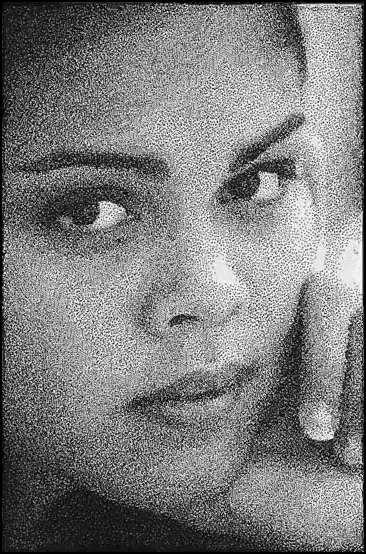
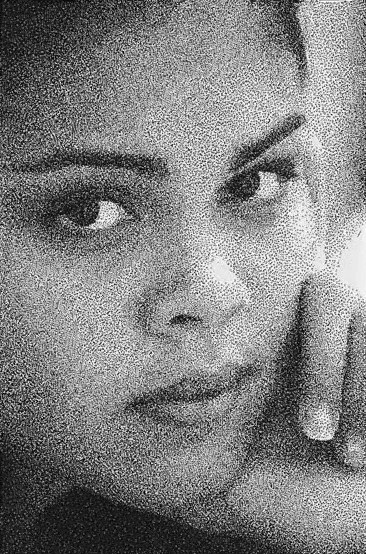
Turns out there was no bug!  I was just looking at intermediate output.  Anyway, I updated all of the examples with the improved code

diff --git a/ImageAnalogies.py b/ImageAnalogies.py
@@ -253,6 +253,24 @@ def imanalogy(A, Ap, B, Kappa = 0.0, NLevels = 3, KCoarse = 5, KFine = 5, n_jobs
         A floating point image of the synthesized image analogy, with the corresponding
         channel dimension
     """
+    #Figure out nearest neighbor methods
+    NNClass = None
+    nn_query = None
+    if use_ann:
+        succeeded = True
+        try:
+            from pynndescent import NNDescent
+        except:
+            succeeded = False
+            print("Warning: Could not import pynndescent: falling back to sklearn exact nearest neighbors")
+        if succeeded:
+            NNClass = lambda X: NNDescent(X)
+            nn_query = lambda nn, F: nn.query(F[None, :], k=1)
+    if not use_ann or not NNClass:
+        from sklearn.neighbors import NearestNeighbors
+        NNClass = lambda X: NearestNeighbors(n_neighbors=1, algorithm='auto', n_jobs=n_jobs).fit(X)
+        nn_query = lambda nn, F: list(nn.kneighbors(F[None, :]))[::-1]
+
     #Make image pyramids
     channel_axis = {}
     if len(A.shape) > 2:
@@ -320,13 +338,7 @@ def imanalogy(A, Ap, B, Kappa = 0.0, NLevels = 3, KCoarse = 5, KFine = 5, n_jobs
             B2 = imresize(BL[level+1], BL[level].shape)
             Bp2 = imresize(BpL[level+1], BpL[level].shape)
         # Step 1d: Setup nearest neighbor structures
-        nn = None
-        if use_ann:
-            from pynndescent import NNDescent
-            nn = NNDescent(X)
-        else:
-            from sklearn.neighbors import NearestNeighbors
-            nn = NearestNeighbors(n_neighbors=1, algorithm='auto', n_jobs=n_jobs).fit(X)
+        nn = NNClass(X)
 
         ## Step 2: Fill in the pixels in scanline order
         F = np.zeros(sz)
@@ -343,10 +355,7 @@ def imanalogy(A, Ap, B, Kappa = 0.0, NLevels = 3, KCoarse = 5, KFine = 5, n_jobs
                     F[area*2+carea:] = get_zeropadded_patch(Bp2, i, j, d).flatten()
                 #Find index of most closely matching feature point in A
                 tic = time.time()
-                if use_ann:
-                    idx, dist = nn.query(F[None, :], k=1)
-                else:
-                    dist, idx = nn.kneighbors(F[None, :])
+                idx, dist = nn_query(nn, F)
                 total_time += time.time()-tic
                 distSqr = dist**2
                 idx = int(idx[0][0])

diff --git a/README.md b/README.md
@@ -11,6 +11,7 @@ All of the dependencies below are pip installable
 * scikit-image
 * imageio
 * sklearn
+* pynndescent (for approximate nearest neighbors)
 
 
 ## Running
@@ -40,7 +41,7 @@ python ImageAnalogies.py --A images/newflower-src.jpg --Ap images/newflower-embo
 ### Nonlinear Artistic Filter
 
 ~~~~~ bash
-python ImageAnalogies.py --A images/chair.png --Ap images/chair-stipple.png --B images/girl.png --Bp results/girl-stipple.png --NLevels 4
+python ImageAnalogies.py --A images/chair.png --Ap images/chair-stipple.png --B images/girl.png --Bp results/girl-stipple.png --NLevels 4 --ann 1
 ~~~~~
 
 <table>
@@ -53,7 +54,7 @@ python ImageAnalogies.py --A images/chair.png --Ap images/chair-stipple.png --B 
 ### Texture By Numbers
 
 ~~~~~ bash
-python ImageAnalogies.py --A images/me-mask.png --Ap images/me.jpg --B images/cyclopsmask.png --Bp results/mecyclops.png --Kappa 0.1 --NLevels 2 
+python ImageAnalogies.py --A images/me-mask.png --Ap images/me.jpg --B images/cyclopsmask.png --Bp results/mecyclops.pngcyclops.png --Kappa 0.0 --NLevels 4 --KCoarse 3 --KFine 7 --ann 1
 ~~~~~
 
 <table>
@@ -67,7 +68,7 @@ python ImageAnalogies.py --A images/me-mask.png --Ap images/me.jpg --B images/cy
 ## Texture Synthesis
 
 ~~~~~ bash
-python ImageAnalogies.py --A images/texture1.A.png --Ap images/texture1.Ap.png --B images/texture1.B.png --Bp results/texture1.Bp.png
+python ImageAnalogies.py --A images/texture1.A.png --Ap images/texture1.Ap.png --B images/texture1.B.png --Bp results/texture1.Bp.png --ann 1
 ~~~~~
 
 
@@ -78,11 +79,11 @@ python ImageAnalogies.py --A images/texture1.A.png --Ap images/texture1.Ap.png -
 <tr><td><img src = "images/texture1.B.png"></td><td><img src = "results/texture1.Bp.png"></td></tr>
 </table>
 
-Now let's do the same experiment as above, but with coherence
+Now let's do the same experiment as above, but with coherence (Kappa = 1.0)
 
 
 ~~~~~ bash
-python ImageAnalogies.py --A images/texture1.A.png --Ap images/texture1.Ap.png --B images/texture1.B.png --Bp results/texture1.Bp_Kappa1.png --Kappa 1
+python ImageAnalogies.py --A images/texture1.A.png --Ap images/texture1.Ap.png --B images/texture1.B.png --Bp results/texture1.Bp_Kappa1.png --Kappa 1.0 --ann 1
 ~~~~~
 
 <table>
